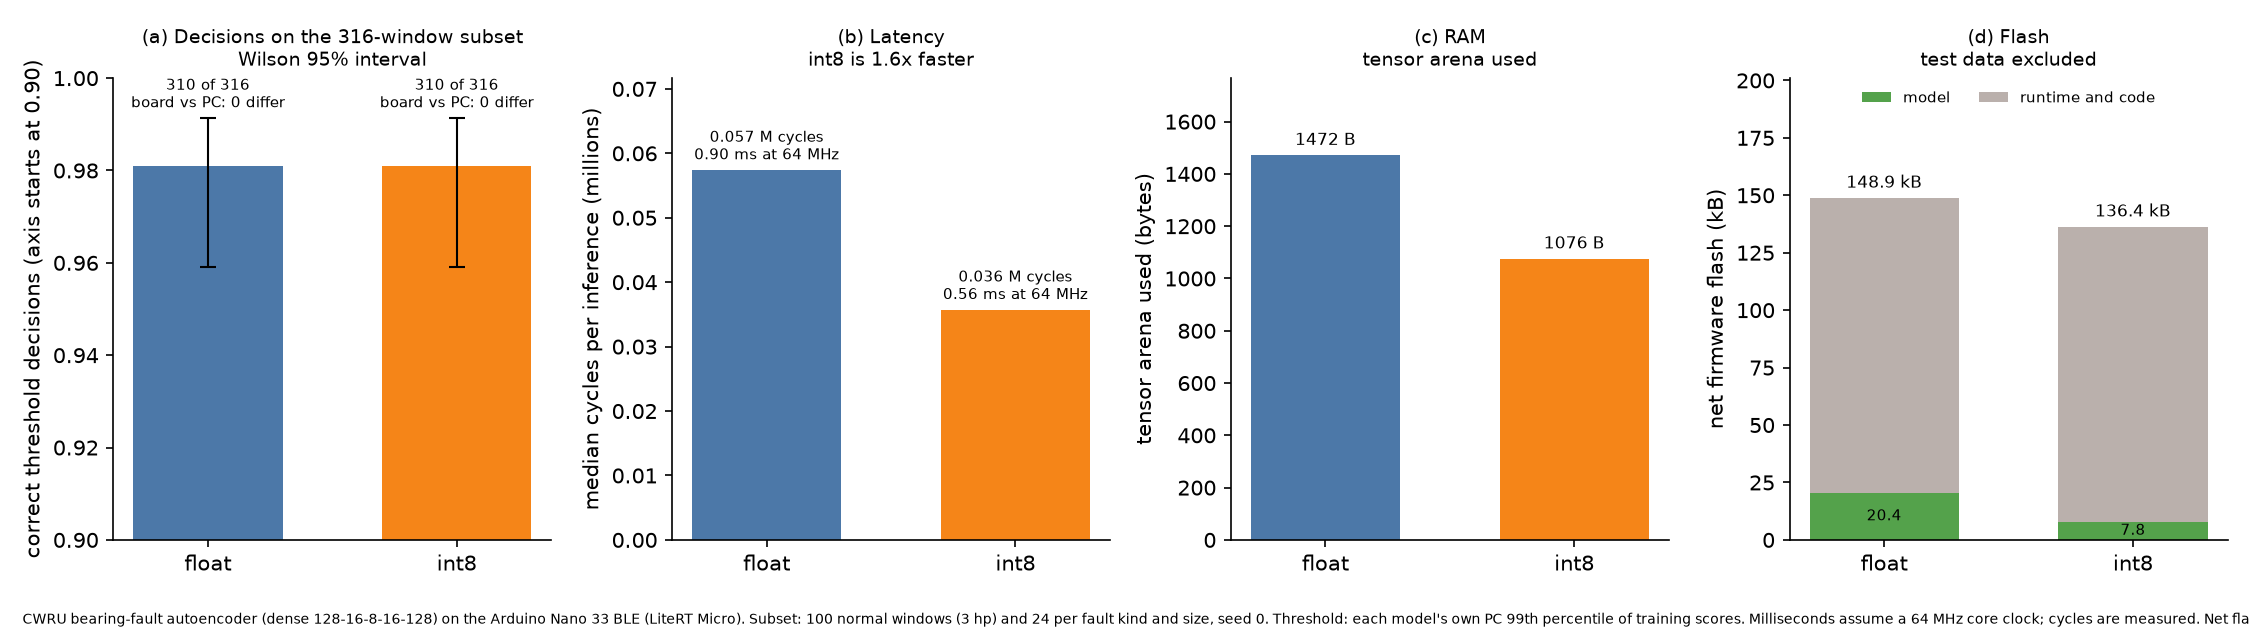
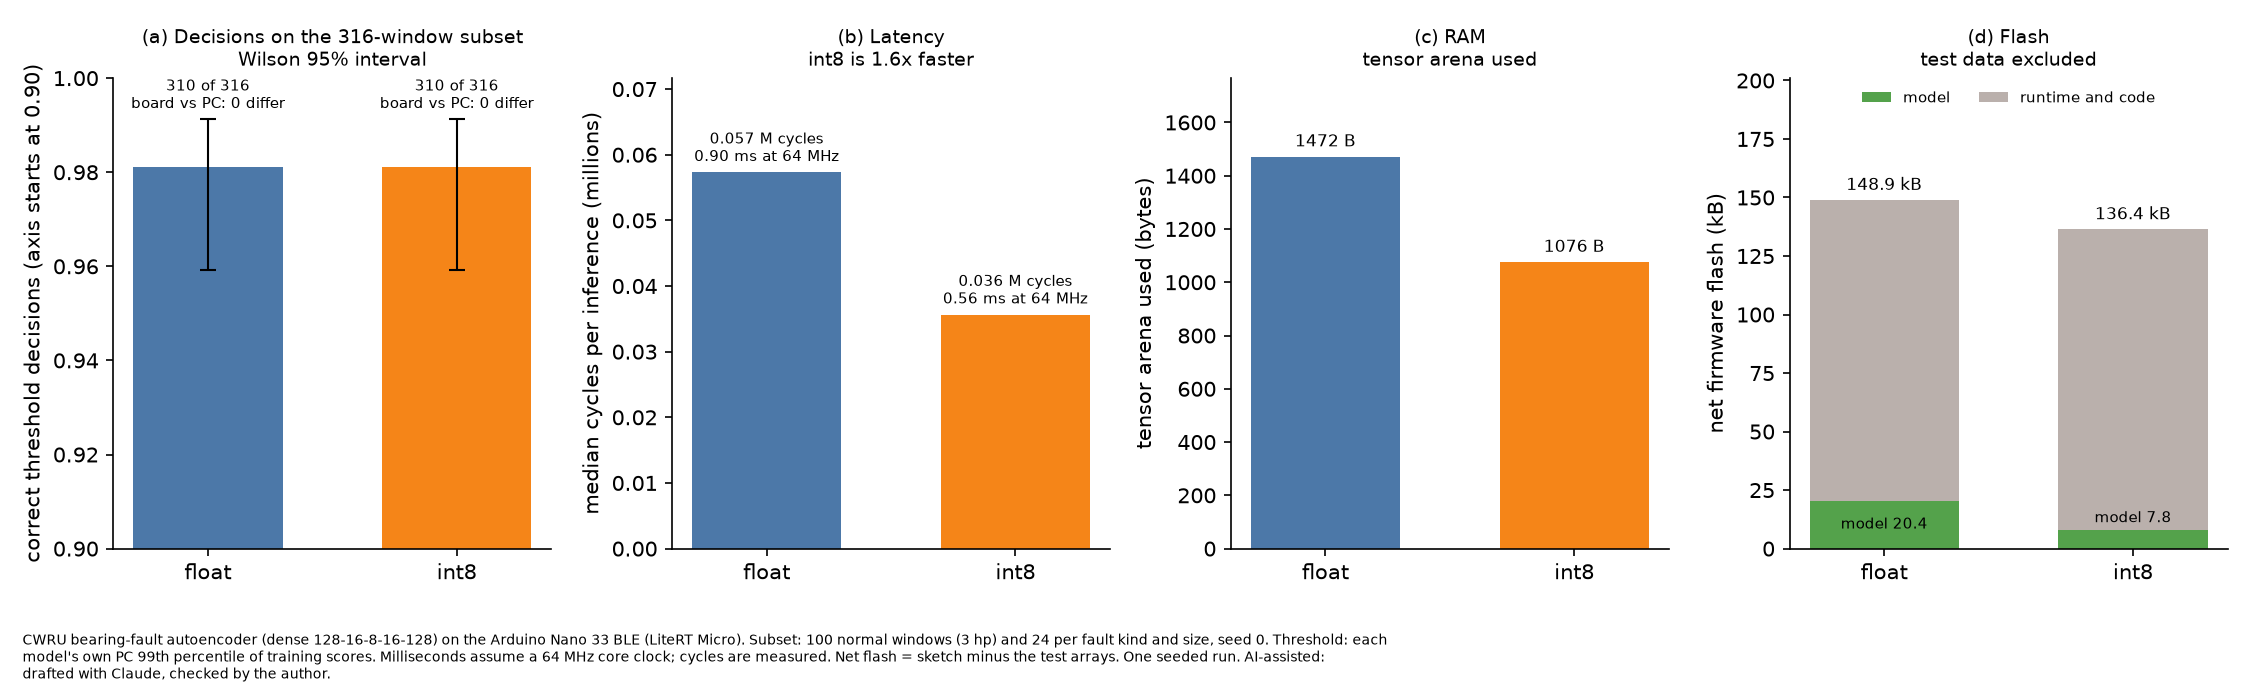
Fix model 3 device figure caption and flash labels
The caption ran off the right edge of the figure and cut off the net
flash note and the 64 MHz caveat. It is now wrapped to 190 characters
(3 lines) with a slightly taller canvas. In panel (d) the model label
reads "model 7.8" and sits above the green when the segment is too
thin to hold it. Four new tests cover the caption wrapping. Figure
regenerated by make_cwru_device_figure.py. Full suite: 157 passed.

Scorecard rows 196 to 200 (26 rows, all hits in this batch).

AI-assisted: drafted with Claude, checked by the author.

diff --git a/litert_quant/src/litert_quant/cwru_device_figure.py b/litert_quant/src/litert_quant/cwru_device_figure.py
@@ -4,6 +4,7 @@ AI-assisted: drafted with Claude, checked by the author.
 Inputs are results/model3_device.json and results/model3_flash.json.
 """
 import json
+import textwrap
 from pathlib import Path
 
 import matplotlib
@@ -16,6 +17,17 @@ from litert_quant.har_device_figure import wilson
 ROOT = Path(__file__).resolve().parents[2]
 KINDS = ("float", "int8")
 COLORS = {"float": "#4C78A8", "int8": "#F58518"}
+CAPTION = (
+    "CWRU bearing-fault autoencoder (dense 128-16-8-16-128) on the Arduino Nano 33 BLE (LiteRT Micro). "
+    "Subset: 100 normal windows (3 hp) and 24 per fault kind and size, seed 0. Threshold: each model's own PC "
+    "99th percentile of training scores. Milliseconds assume a 64 MHz core clock; cycles are measured. "
+    "Net flash = sketch minus the test arrays. One seeded run. AI-assisted: drafted with Claude, checked by the author."
+)
+CAPTION_WIDTH = 190
+
+
+def wrap_caption(text=CAPTION, width=CAPTION_WIDTH):
+    return textwrap.fill(text, width=width)
 
 
 def _label(ax, x, y, text, size=8):
@@ -25,7 +37,7 @@ def _label(ax, x, y, text, size=8):
 def make_device_figure(device_json, flash_json, out_png):
     dev = json.loads(Path(device_json).read_text())
     flash = json.loads(Path(flash_json).read_text())
-    fig, axes = plt.subplots(1, 4, figsize=(15, 4.2))
+    fig, axes = plt.subplots(1, 4, figsize=(15, 4.6))
     xs = [0, 1]
 
     ax = axes[0]
@@ -64,10 +76,14 @@ def make_device_figure(device_json, flash_json, out_png):
     rest = [flash[k]["runtime_and_code_bytes"] / 1000 for k in KINDS]
     ax.bar(xs, model, color="#54A24B", width=0.6, label="model")
     ax.bar(xs, rest, bottom=model, color="#BAB0AC", width=0.6, label="runtime and code")
+    top = max(m + r for m, r in zip(model, rest)) * 1.35
     for i, k in enumerate(KINDS):
         _label(ax, i, model[i] + rest[i], "%.1f kB" % (flash[k]["net_firmware_bytes"] / 1000))
-        ax.text(i, model[i] / 2, "%.1f" % model[i], ha="center", va="center", fontsize=7)
-    ax.set_ylim(0, max(m + r for m, r in zip(model, rest)) * 1.35)
+        if model[i] >= 0.08 * top:
+            ax.text(i, model[i] / 2, "model %.1f" % model[i], ha="center", va="center", fontsize=7)
+        else:
+            ax.text(i, model[i] + 0.01 * top, "model %.1f" % model[i], ha="center", va="bottom", fontsize=7)
+    ax.set_ylim(0, top)
     ax.set_ylabel("net firmware flash (kB)")
     ax.set_title("(d) Flash\ntest data excluded", fontsize=9)
     ax.legend(fontsize=7, loc="upper center", ncol=2, frameon=False)
@@ -76,16 +92,8 @@ def make_device_figure(device_json, flash_json, out_png):
         a.set_xticks(xs)
         a.set_xticklabels(KINDS)
         a.spines[["top", "right"]].set_visible(False)
-    fig.text(
-        0.01,
-        0.01,
-        "CWRU bearing-fault autoencoder (dense 128-16-8-16-128) on the Arduino Nano 33 BLE (LiteRT Micro). "
-        "Subset: 100 normal windows (3 hp) and 24 per fault kind and size, seed 0. Threshold: each model's own PC "
-        "99th percentile of training scores. Milliseconds assume a 64 MHz core clock; cycles are measured. "
-        "Net flash = sketch minus the test arrays. One seeded run. AI-assisted: drafted with Claude, checked by the author.",
-        fontsize=6.5,
-    )
-    fig.tight_layout(rect=(0, 0.05, 1, 1))
+    fig.text(0.01, 0.01, wrap_caption(), fontsize=6.5, va="bottom")
+    fig.tight_layout(rect=(0, 0.12, 1, 1))
     out_png = Path(out_png)
     out_png.parent.mkdir(parents=True, exist_ok=True)
     fig.savefig(out_png, dpi=150)

diff --git a/litert_quant/tests/test_cwru_device_figure_caption.py b/litert_quant/tests/test_cwru_device_figure_caption.py
@@ -1,0 +1,22 @@
+"""Tests for the device figure caption.
+
+AI-assisted: drafted with Claude, checked by the author.
+"""
+from litert_quant.cwru_device_figure import CAPTION, CAPTION_WIDTH, wrap_caption
+
+
+def test_every_line_fits_the_width():
+    lines = wrap_caption().split("\n")
+    assert all(len(line) <= CAPTION_WIDTH for line in lines)
+
+
+def test_wrapping_keeps_every_word():
+    assert " ".join(wrap_caption().split()) == " ".join(CAPTION.split())
+
+
+def test_caption_keeps_the_clock_caveat():
+    assert "64 MHz" in " ".join(wrap_caption().split())
+
+
+def test_caption_wraps_to_at_most_four_lines():
+    assert len(wrap_caption().split("\n")) <= 4
